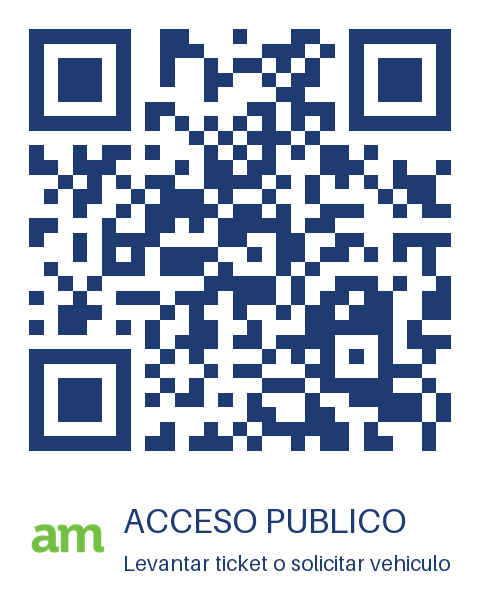
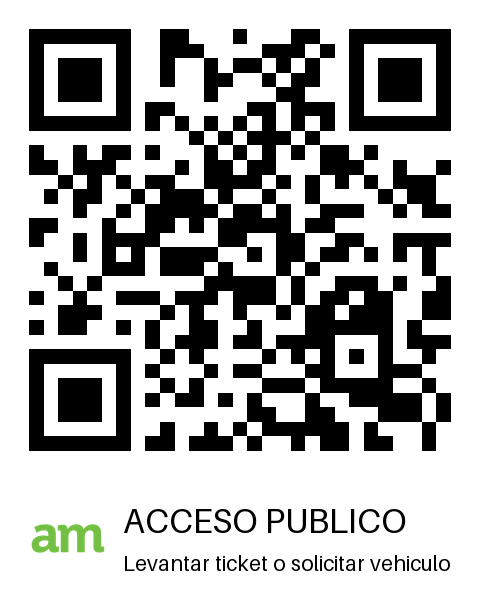
Cambiar el color de todos los QR a negro puro
Solo el logo am conserva su color; el módulo del QR y las etiquetas de
texto pasan de azul de marca a #000000.

diff --git a/backend/app/qr.py b/backend/app/qr.py
@@ -13,7 +13,7 @@ from urllib.parse import quote
 import qrcode
 from PIL import Image, ImageDraw, ImageFont
 
-COLOR_MARCA = "#1e3c72"
+COLOR_MARCA = "#000000"
 
 # Ancho fijo del QR etiquetado (px). El QR natural que arma `qrcode` sale muy
 # chico para dejarle espacio decente al logo y al texto de la leyenda, así
